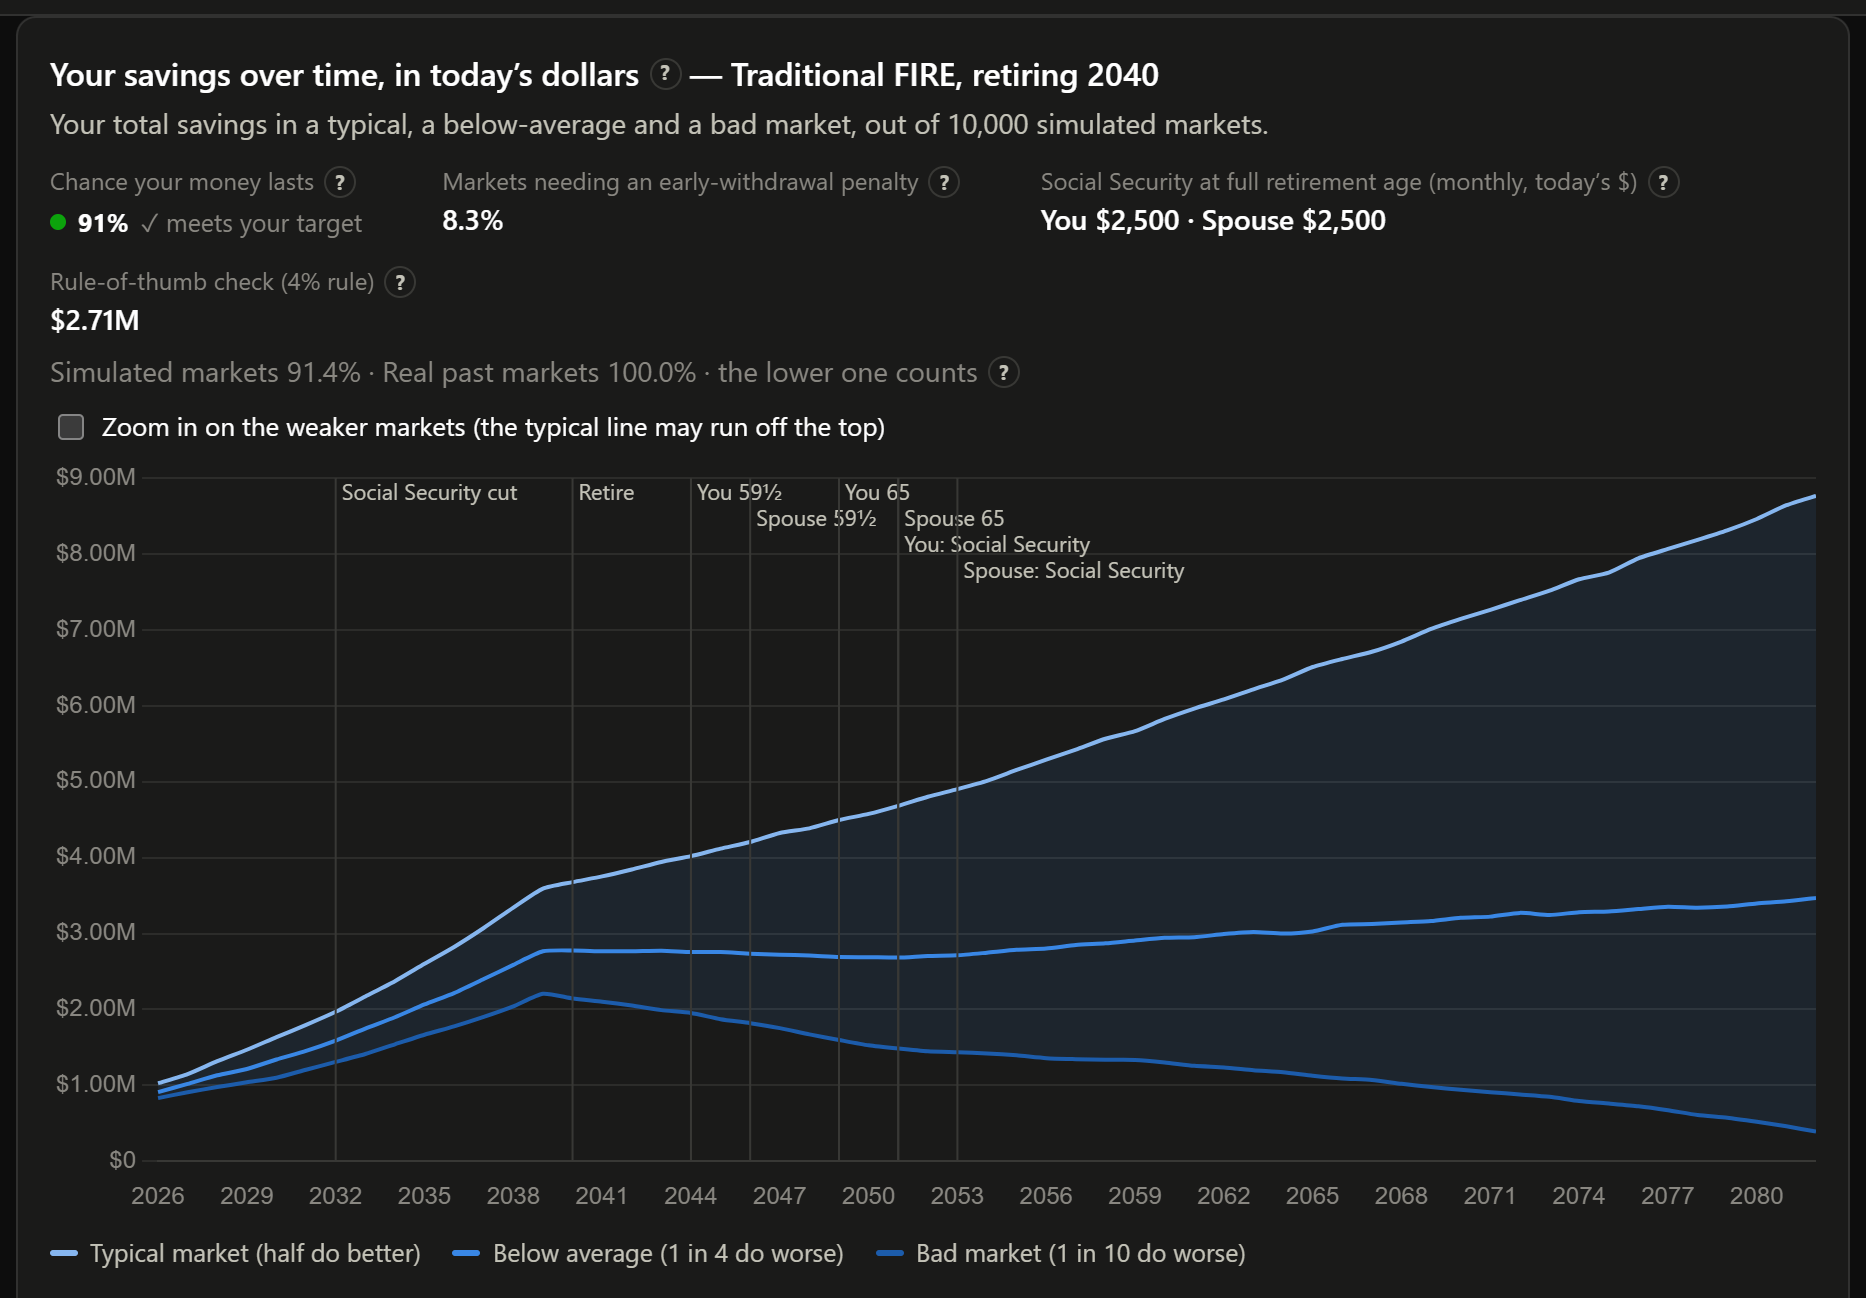
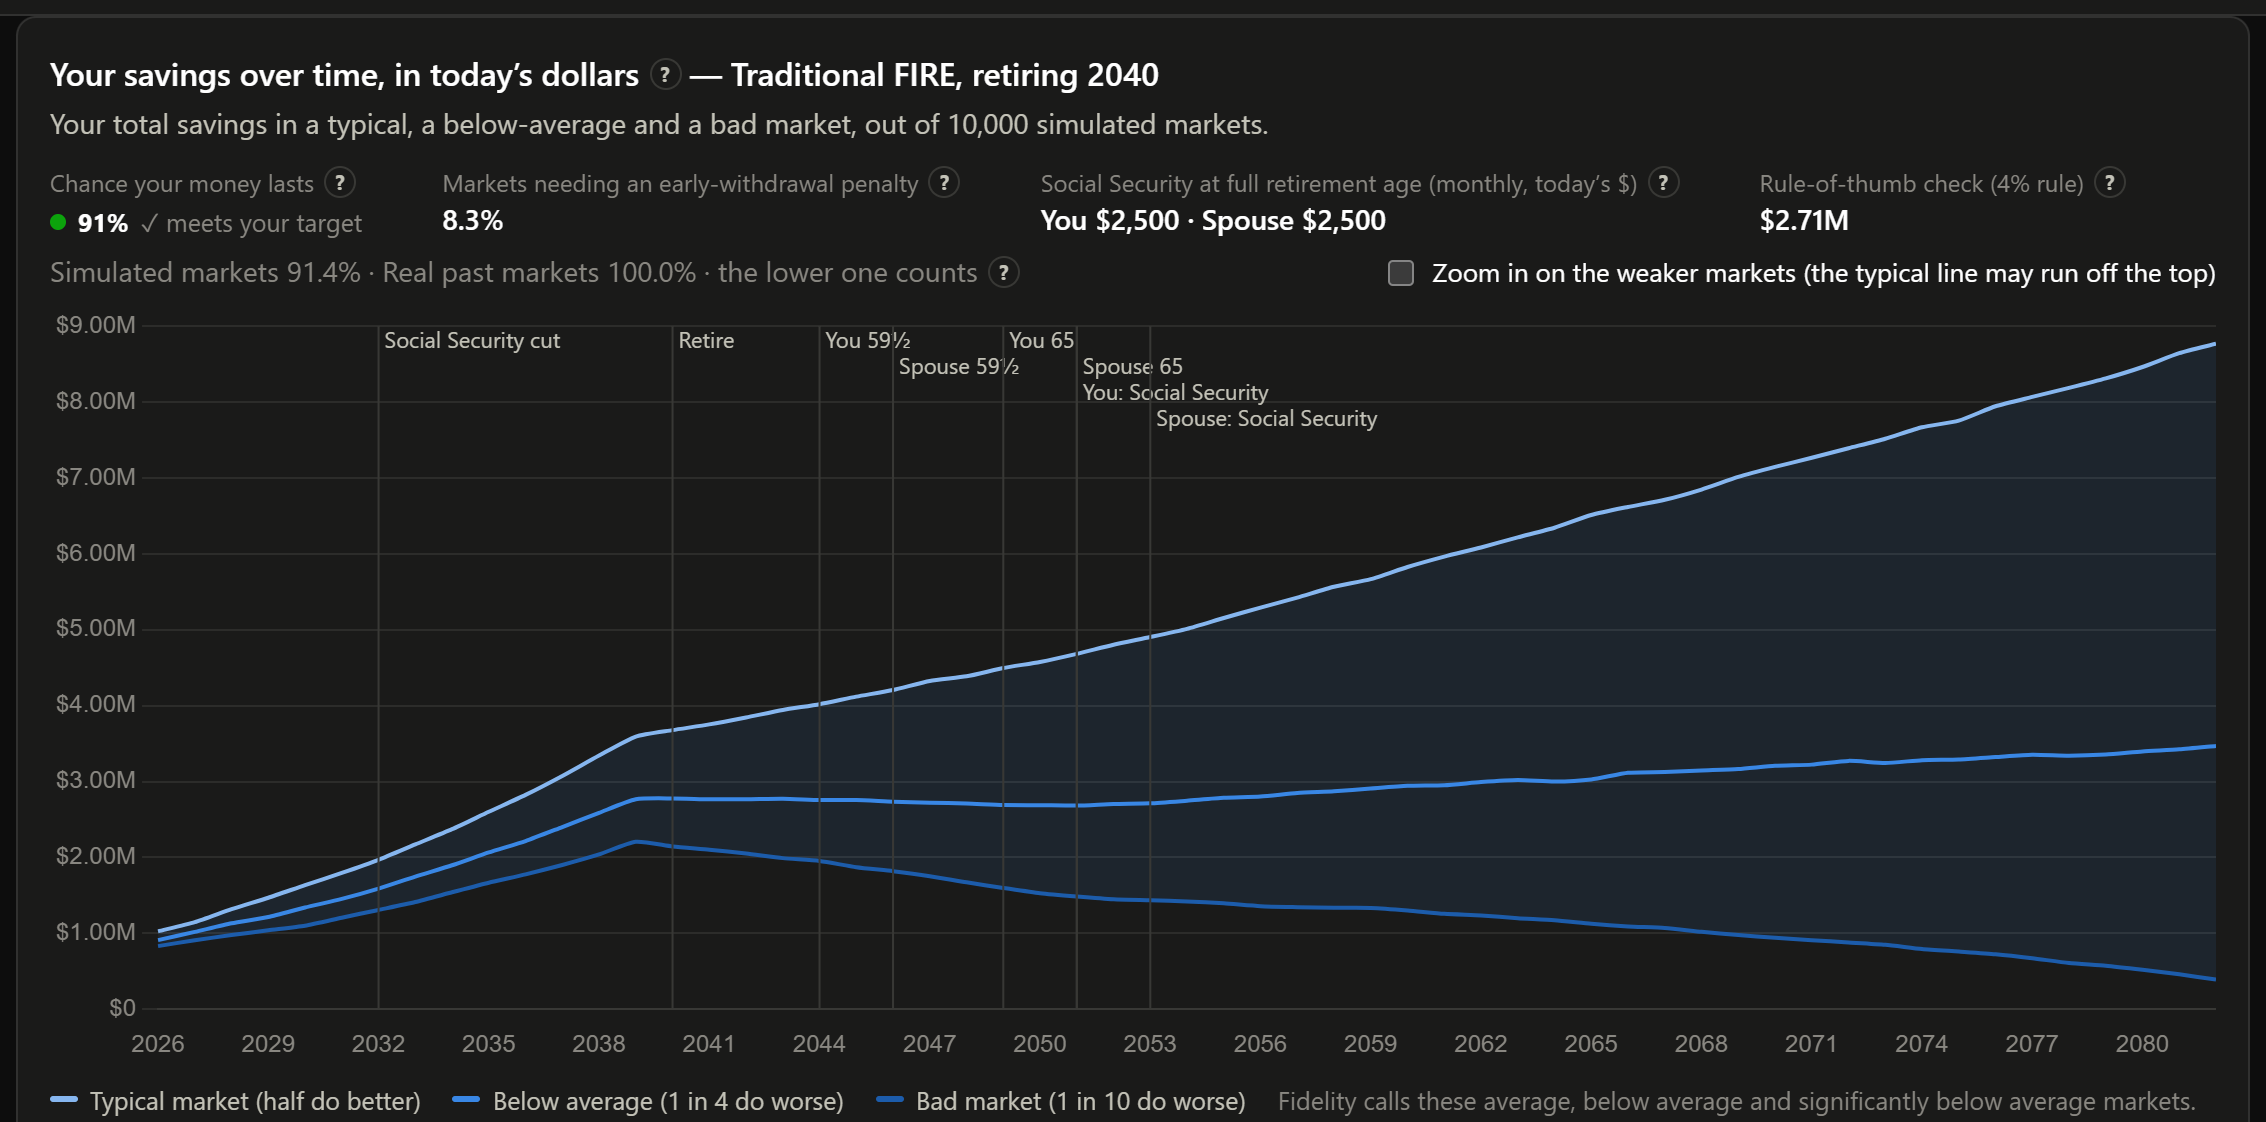
README screenshots retaken at a 1600px window so the three result cards sit in one row (at 1400px the results pane is just too narrow for three 300px cards and Coast wrapped), with the main shot cropped below the "Before you act on these numbers" panel and the chart cropped at its legend; the "What 

diff --git a/docs/DEVELOPMENT.md b/docs/DEVELOPMENT.md
@@ -87,9 +87,10 @@ code comments cite) first. Planned work is in [pending-features.md](pending-feat
      `tests/playbook-engine.test.ts` and review the diff of `tests/__snapshots__/playbook-profiles.test.ts.snap`
      before accepting it with `-u`.
    - If the change alters what the Plan tab shows, retake the README screenshots in `docs/images/`: the
-     built-in example plan (a fresh browser profile, so no saved draft), a 1400 × 1000 window at 2× scale,
-     dark theme; `results-dark.png` is the whole window after **Calculate**, `savings-chart-dark.png` the
-     "Your savings over time" panel down to its legend.
+     built-in example plan (a fresh browser profile, so no saved draft), a 1600 × 1000 window at 2× scale
+     (narrower windows wrap the three result cards onto two rows), dark theme; `results-dark.png` is the
+     window from the top down to the "Before you act on these numbers" panel after **Calculate**,
+     `savings-chart-dark.png` the "Your savings over time" panel down to its legend.
    - Remove a finished item from pending-features.md.
 5. **Adding a field to `Plan`** (`src/engine/types.ts`) needs care. Session files (`schemaVersion: 1`,
    `src/ui/sessions.ts`) and the browser draft (`loadDraft` in `src/App.tsx`) are loaded as saved. A new

diff --git a/README.md b/README.md
@@ -10,7 +10,7 @@ published as is, not as a calculator for everyone, and it is not financial advic
 
 ## What it tells you
 
-| | |
+| FIRE type | Answer |
 |---|---|
 | **Traditional FIRE** | The earliest year both of you can stop working, and the savings you need by then. |
 | **Chubby FIRE** | The same, at a higher spending level (default 1.2 × today's spending). |
